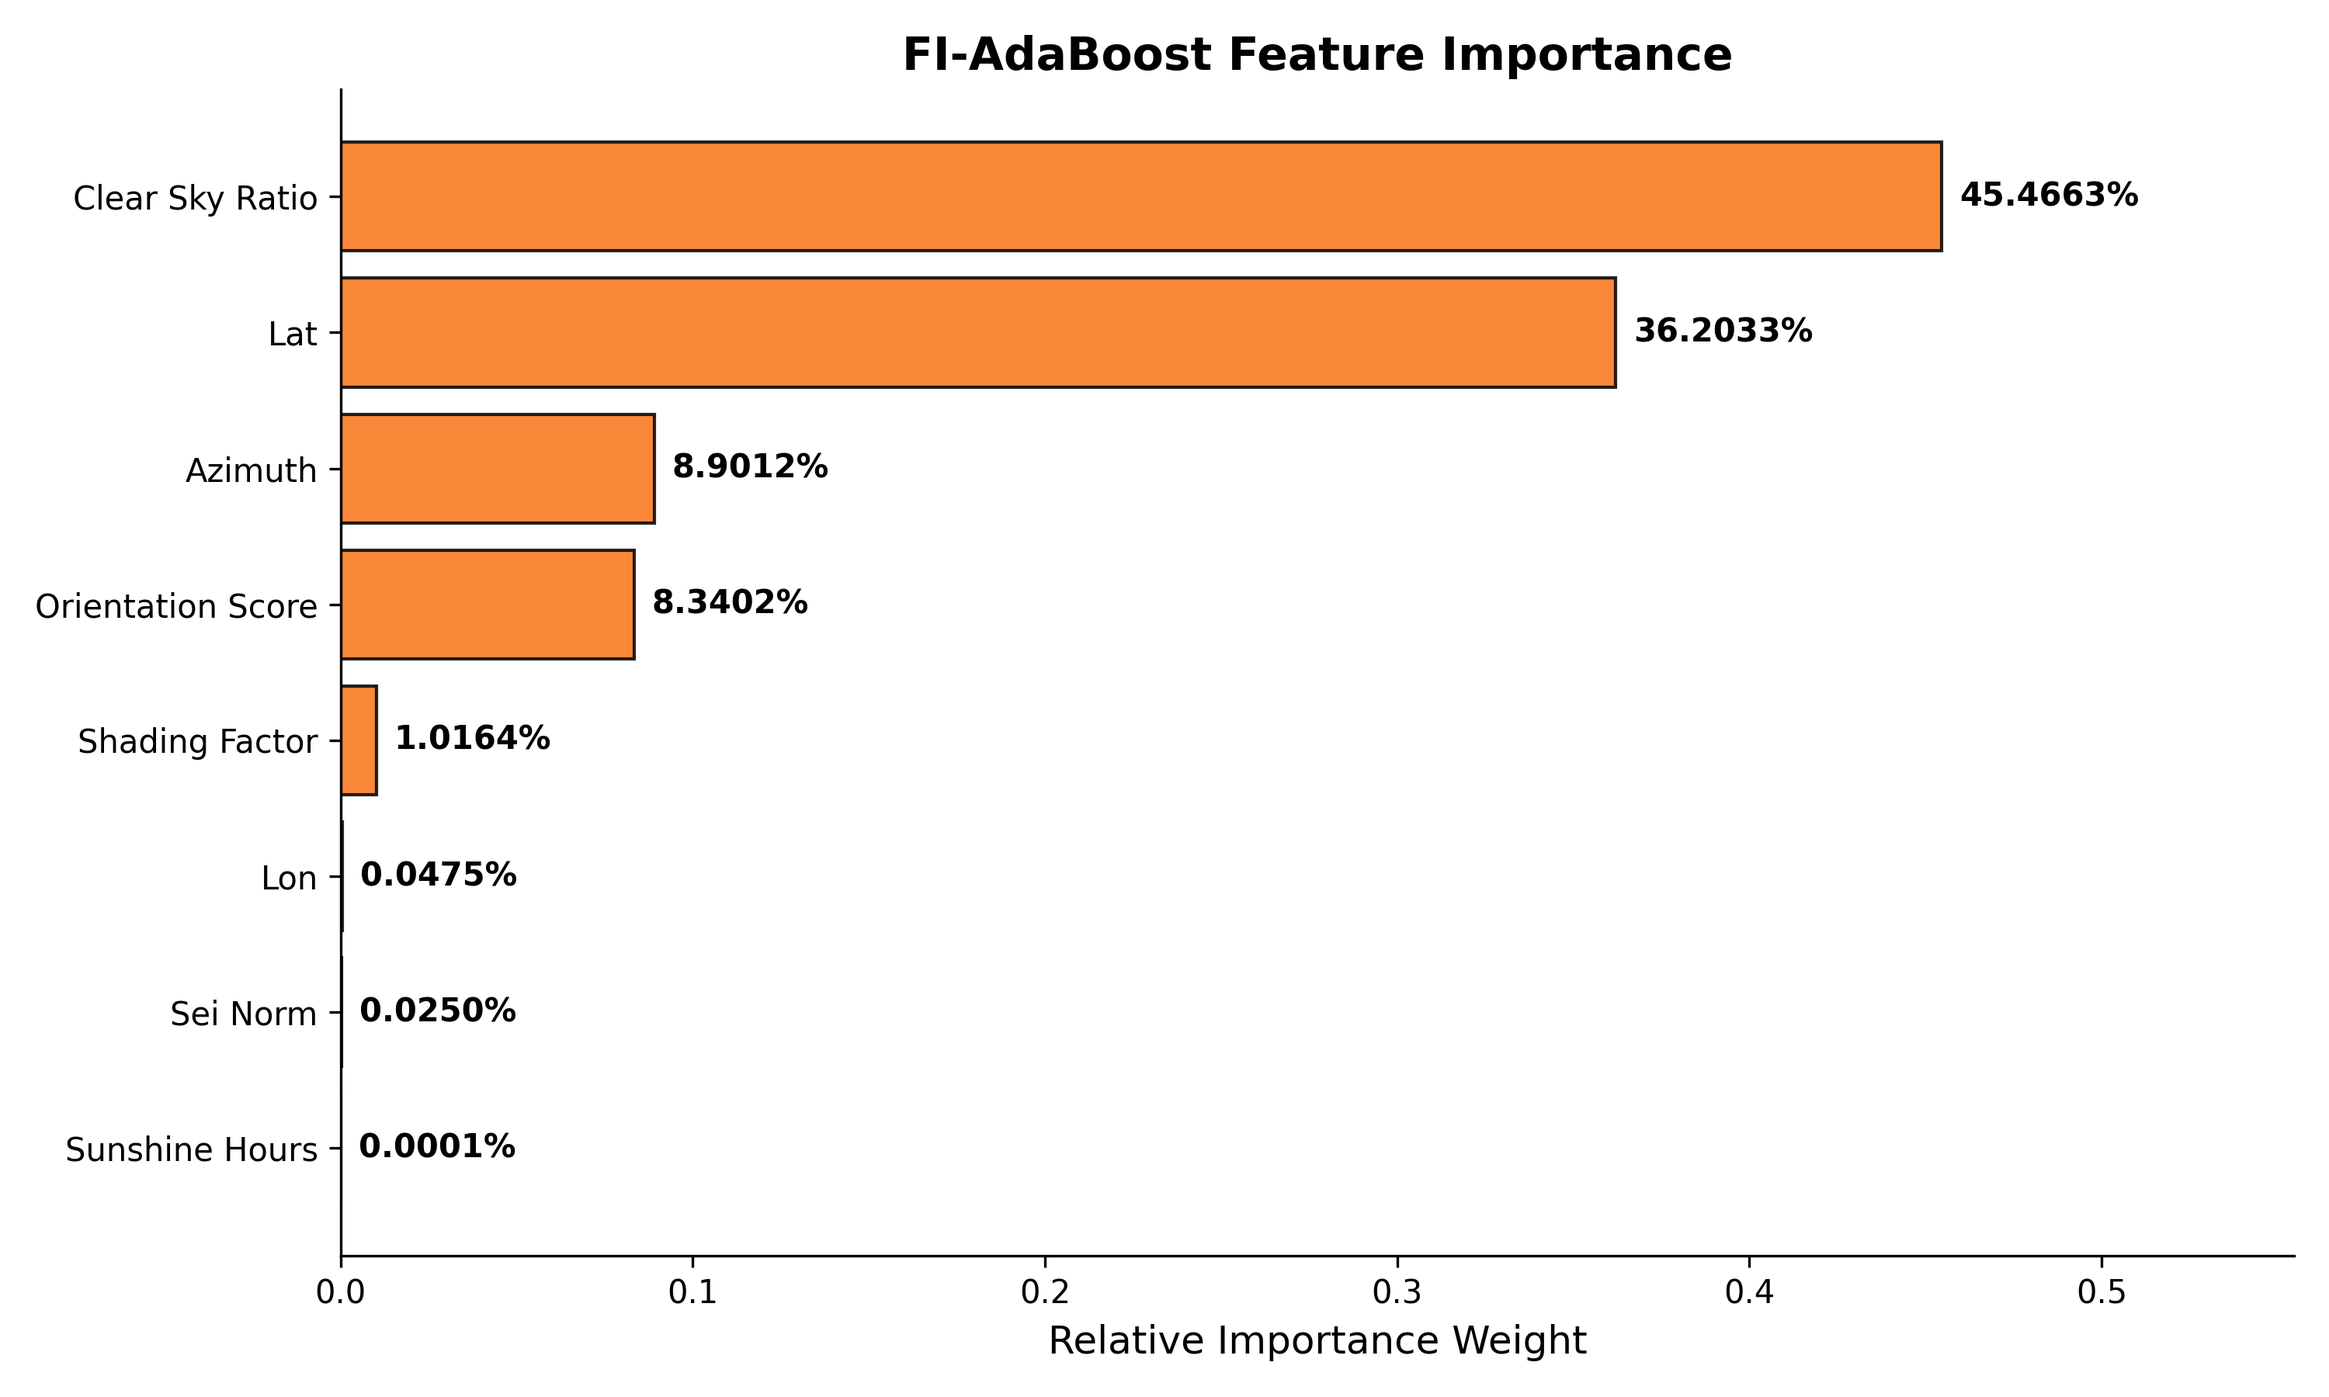
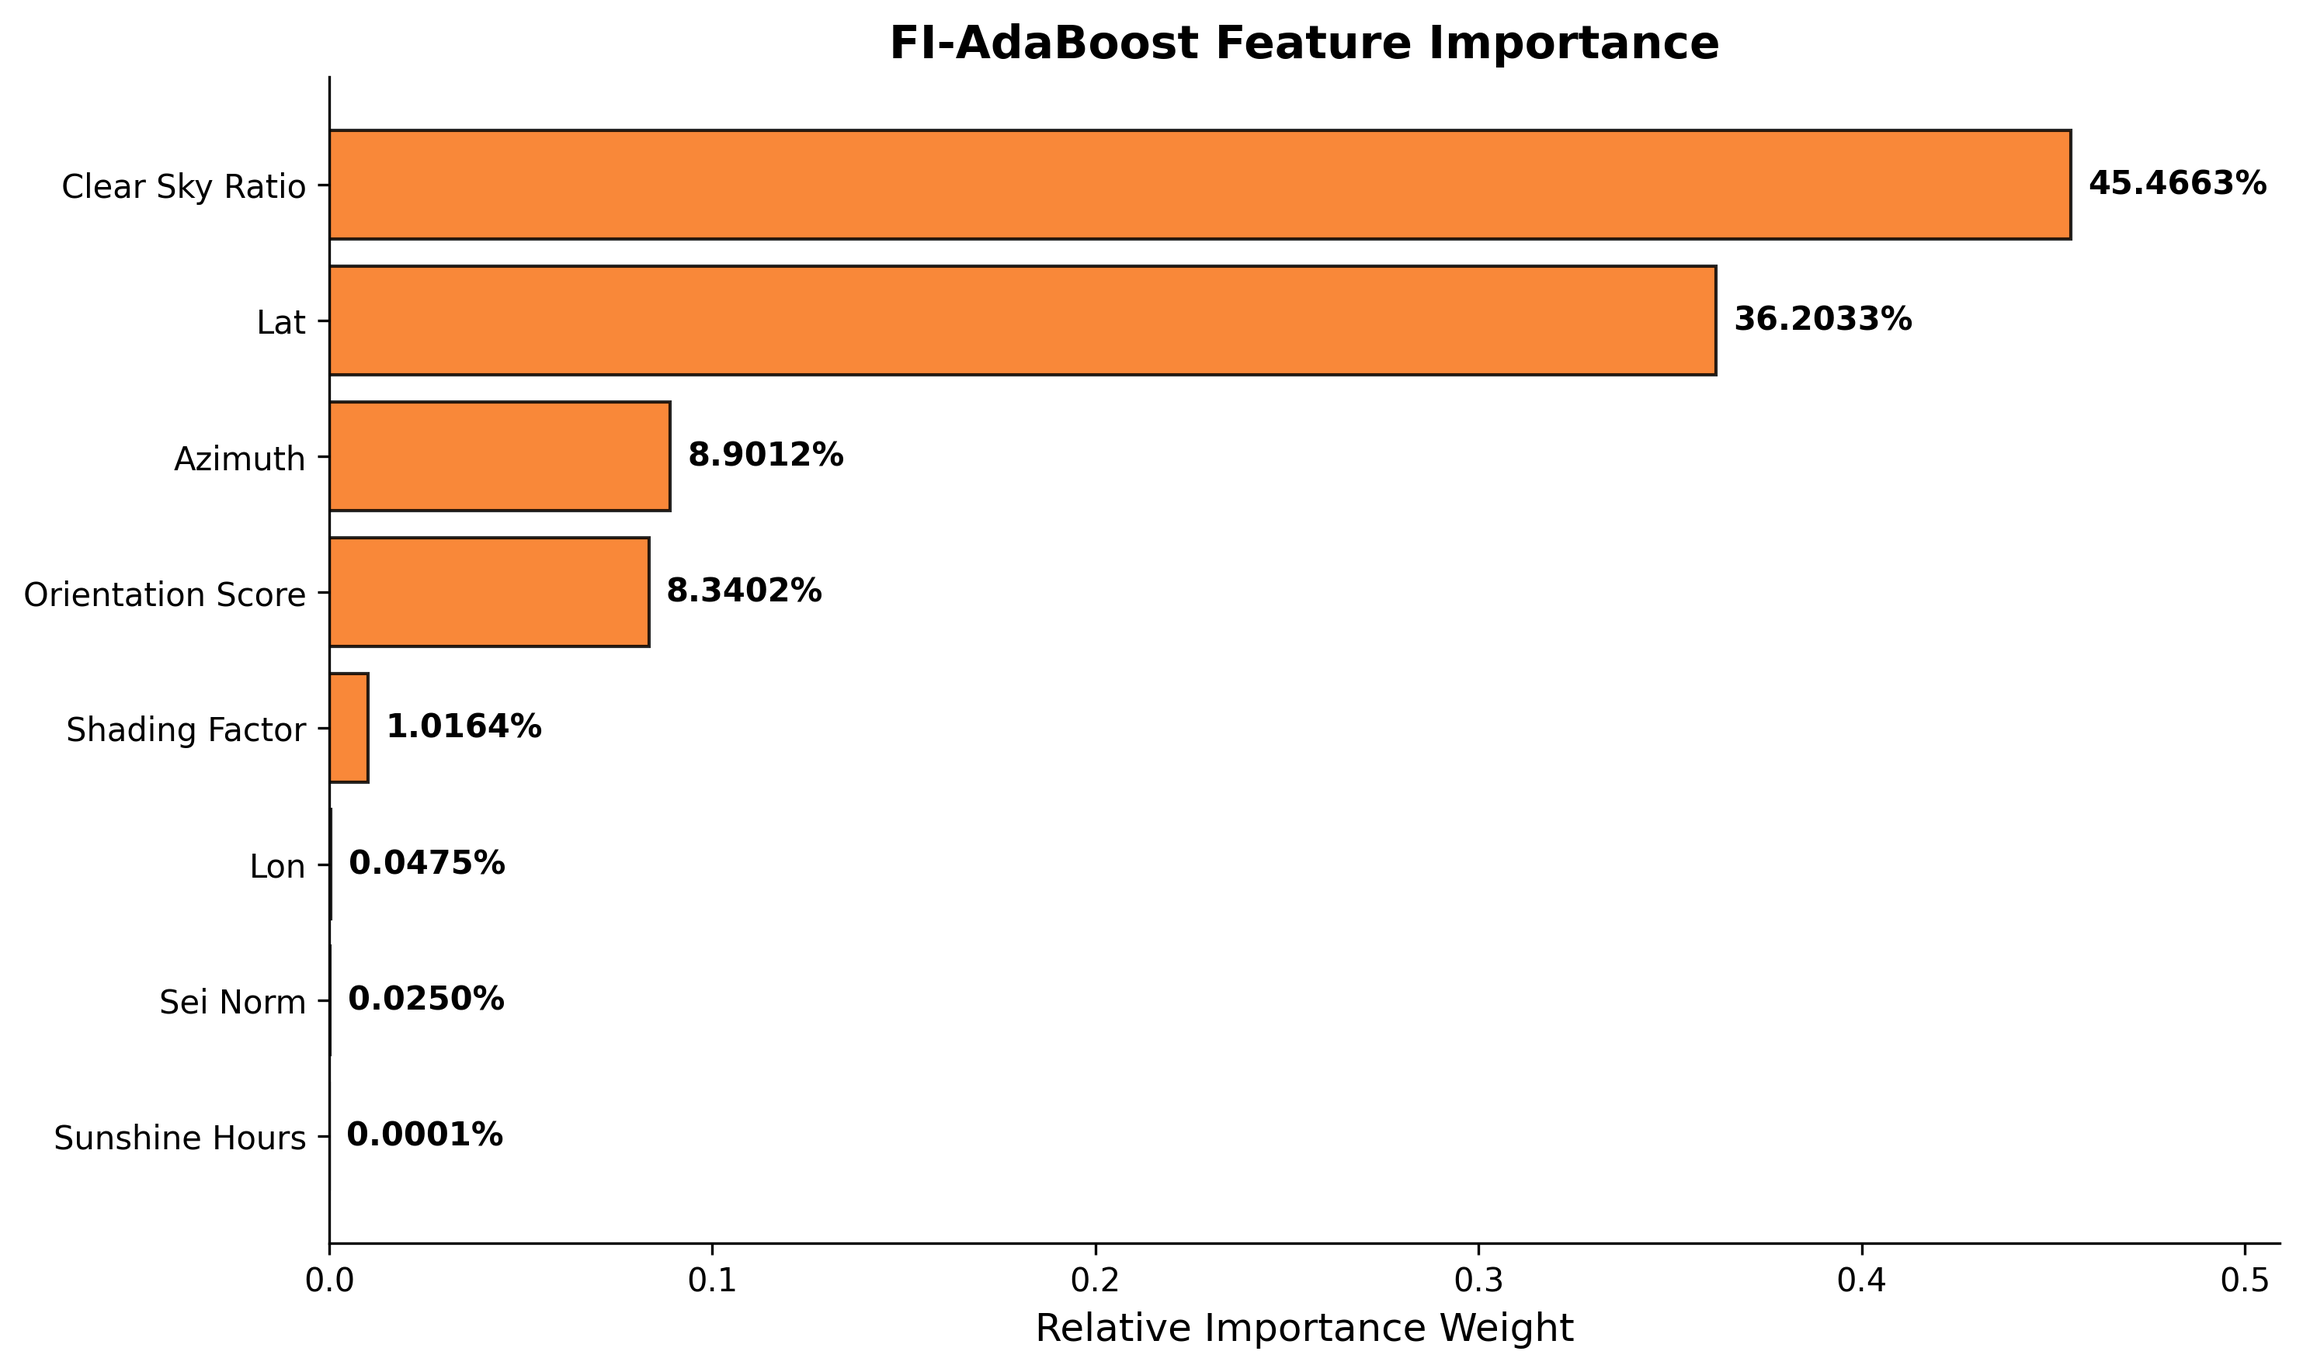
trained

diff --git a/FIAdaBoost/src/model_training.py b/FIAdaBoost/src/model_training.py
@@ -466,11 +466,15 @@ def run_kfold_cv(X_train_ada: np.ndarray, X_train_fi: np.ndarray,
         rows.append({
             "fold":             fold,
             "ada_train_RMSE_J": ada_train_m["RMSE_J"],
+            "ada_train_MAE_J":  ada_train_m["MAE_J"],
             "ada_val_RMSE_J":   ada_val_m["RMSE_J"],
+            "ada_val_MAE_J":    ada_val_m["MAE_J"],
             "ada_train_R2":     ada_train_m["R2"],
             "ada_val_R2":       ada_val_m["R2"],
             "fi_train_RMSE_J":  fi_train_m["RMSE_J"],
+            "fi_train_MAE_J":   fi_train_m["MAE_J"],
             "fi_val_RMSE_J":    fi_val_m["RMSE_J"],
+            "fi_val_MAE_J":     fi_val_m["MAE_J"],
             "fi_train_R2":      fi_train_m["R2"],
             "fi_val_R2":        fi_val_m["R2"],
         })
@@ -481,6 +485,36 @@ def save_cv_metrics(cv_df: pd.DataFrame) -> str:
     path = os.path.join(RESULTS_DIR, "cv_fold_metrics.csv")
     cv_df.to_csv(path, index=False)
     return path
+
+
+def _hyperparameter_row(
+    *,
+    pipeline: str,
+    model: str,
+    params: dict,
+    target: str,
+    features: list,
+    cv_method: str,
+    n_trials: int = 100,
+    n_splits: int = 5,
+) -> dict:
+    """Build one reproducibility row for the tuned hyperparameters CSV."""
+    return {
+        "pipeline": pipeline,
+        "model": model,
+        "tuning_method": "Optuna TPE",
+        "cv_method": cv_method,
+        "n_trials": n_trials,
+        "n_splits": n_splits,
+        "objective_metric": "mean_validation_RMSE_J",
+        "target": target,
+        "target_unit": "J/m2/day",
+        "features": ",".join(features),
+        "random_seed": RANDOM_SEED,
+        "n_estimators": params.get("n_estimators"),
+        "learning_rate": params.get("learning_rate"),
+        "max_depth": params.get("max_depth"),
+    }
 
 
 # =============================================================================
@@ -659,6 +693,30 @@ def run_daily_pipeline() -> None:
     fi_params = {'n_estimators': 100, 'learning_rate': 1.5, 'max_depth': 5}
     print(f"  Best: {fi_params}")
 
+    p_hyper = save_hyperparameters_csv(
+        [
+            _hyperparameter_row(
+                pipeline="daily_temporal",
+                model="AdaBoost (Daily, Temporal Split)",
+                params=ada_params,
+                target=DAILY_TARGET,
+                features=DAILY_FEATURES,
+                cv_method="TimeSeriesSplit",
+                n_trials=50,
+            ),
+            _hyperparameter_row(
+                pipeline="daily_temporal",
+                model="FI-AdaBoost (Daily, Temporal Split)",
+                params=fi_params,
+                target=DAILY_TARGET,
+                features=DAILY_FEATURES,
+                cv_method="TimeSeriesSplit",
+                n_trials=50,
+            ),
+        ],
+        append=True,
+    )
+
     # CV fold metrics (Fix 4 — TimeSeriesSplit)
     tscv    = TimeSeriesSplit(n_splits=5)
     cv_rows = []
@@ -727,6 +785,7 @@ def run_daily_pipeline() -> None:
     print(f"\n  Saved: {p_daily}")
     print(f"  Saved: {p_cv}")
     print(f"  Saved: {p_dm}")
+    print(f"  Saved: {p_hyper}")
 
 
 # =============================================================================
@@ -756,47 +815,150 @@ def save_forecast_csv(ada_fcast: pd.DataFrame, fi_fcast: pd.DataFrame) -> str:
     return path
 
 
+def save_hyperparameters_csv(rows: list[dict], append: bool = False) -> str:
+    path = os.path.join(RESULTS_DIR, "hyperparameters_used.csv")
+    df = pd.DataFrame(rows)
+    if append and os.path.exists(path):
+        existing = pd.read_csv(path)
+        df = pd.concat([existing, df], ignore_index=True)
+    df.to_csv(path, index=False)
+    return path
+
+
+def save_feature_weight_csv(fi_vals, feats) -> str:
+    order = np.argsort(fi_vals)[::-1]
+    rows = []
+    for rank, idx in enumerate(order, start=1):
+        weight = float(fi_vals[idx])
+        rows.append({
+            "rank": rank,
+            "feature": str(feats[idx]),
+            "fi_feature_weight": weight,
+            "fi_feature_weight_percent": weight * 100,
+            "source": "fi_adaboost_feature_importances_",
+        })
+
+    path = os.path.join(RESULTS_DIR, "feature_weight_importance.csv")
+    pd.DataFrame(rows).to_csv(path, index=False, float_format="%.12g")
+    return path
+
+
+def save_baseline_feature_weight_csv(ada_vals, feats) -> str:
+    order = np.argsort(ada_vals)[::-1]
+    rows = []
+    for rank, idx in enumerate(order, start=1):
+        weight = float(ada_vals[idx])
+        rows.append({
+            "rank": rank,
+            "feature": str(feats[idx]),
+            "baseline_feature_weight": weight,
+            "baseline_feature_weight_percent": weight * 100,
+            "source": "ada_feature_importances_",
+        })
+
+    path = os.path.join(RESULTS_DIR, "baseline_feature_weight_importance.csv")
+    pd.DataFrame(rows).to_csv(path, index=False, float_format="%.12g")
+    return path
+
+
+def save_feature_importance_comparison_csv(ada_vals, ada_feats, fi_vals, fi_feats) -> str:
+    ada_map = {feat: float(val) for feat, val in zip(ada_feats, ada_vals)}
+    fi_map = {feat: float(val) for feat, val in zip(fi_feats, fi_vals)}
+    ada_rank = {
+        feat: rank
+        for rank, (feat, _) in enumerate(
+            sorted(ada_map.items(), key=lambda item: -item[1]), start=1
+        )
+    }
+    fi_rank = {
+        feat: rank
+        for rank, (feat, _) in enumerate(
+            sorted(fi_map.items(), key=lambda item: -item[1]), start=1
+        )
+    }
+    features = list(dict.fromkeys(list(fi_feats) + list(ada_feats)))
+    rows = []
+    for feat in features:
+        ada_weight = ada_map.get(feat, 0.0)
+        fi_weight = fi_map.get(feat, 0.0)
+        rows.append({
+            "feature": feat,
+            "actual_baseline_source": (
+                "ada_feature_importances_"
+                if feat in ada_map else "not_used_by_baseline_model"
+            ),
+            "actual_baseline_importance_weight": ada_weight,
+            "actual_baseline_importance_percent": ada_weight * 100,
+            "actual_baseline_rank": ada_rank.get(feat, ""),
+            "fi_source": "fi_adaboost_feature_importances_",
+            "fi_importance_weight": fi_weight,
+            "fi_importance_percent": fi_weight * 100,
+            "fi_rank": fi_rank.get(feat, ""),
+        })
+
+    path = os.path.join(RESULTS_DIR, "feature_importance_comparison.csv")
+    pd.DataFrame(rows).sort_values(
+        "fi_importance_weight", ascending=False
+    ).to_csv(path, index=False, float_format="%.12g")
+    return path
+
+
 # =============================================================================
 # PLOTS
 # =============================================================================
-def plot_standalone_feature_importance(fi_vals, feats):
+def _plot_feature_importance_bars(vals, feats, filename: str, title: str, xlabel: str, color: str):
+    vals = np.asarray(vals, dtype=float)
+    labels = [f.replace("_", " ").title() for f in feats]
+    idx = np.argsort(vals)
+    sv = vals[idx]
+    sl = np.array(labels)[idx]
+
     plt.figure(figsize=(10, 6))
-    labels     = [f.replace("_", " ").title() for f in feats]
-    idx        = np.argsort(fi_vals)
-    sv         = fi_vals[idx]
-    sl         = np.array(labels)[idx]
-    bars       = plt.barh(sl, sv, color=C_FI, edgecolor="black", alpha=0.85)
+    bars = plt.barh(sl, sv, color=color, edgecolor="black", alpha=0.85)
+    max_val = float(max(sv)) if len(sv) else 0.0
+    label_pad = max(max_val * 0.01, 0.001)
     for bar, val in zip(bars, sv):
-        plt.text(val + 0.005, bar.get_y() + bar.get_height() / 2,
-                 f"{val * 100:.4f}%", va="center", ha="left", fontsize=10, fontweight="bold")
-    plt.title("FI-AdaBoost Feature Importance", fontsize=14, fontweight="bold")
-    plt.xlabel("Relative Importance Weight", fontsize=12)
-    plt.xlim(0, max(sv) + 0.1)
+        plt.text(val + label_pad, bar.get_y() + bar.get_height() / 2,
+                 f"{val * 100:.4f}%", va="center", ha="left",
+                 fontsize=10, fontweight="bold")
+    plt.title(title, fontsize=14, fontweight="bold")
+    plt.xlabel(xlabel, fontsize=12)
+    plt.xlim(0, max_val + max(max_val * 0.12, 0.02))
     plt.gca().spines["top"].set_visible(False)
     plt.gca().spines["right"].set_visible(False)
     plt.tight_layout()
-    plt.savefig(os.path.join(RESULTS_DIR, "standalone_feature_importances.png"), dpi=300)
+    plt.savefig(os.path.join(RESULTS_DIR, filename), dpi=300, bbox_inches="tight")
     plt.close()
+
+
+def plot_standalone_feature_importance(fi_vals, feats):
+    _plot_feature_importance_bars(
+        fi_vals, feats, "standalone_feature_importances.png",
+        "FI-AdaBoost Feature Importance", "Relative Importance Weight", C_FI,
+    )
 
 
 def plot_standalone_baseline_feature_importance(ada_vals, feats):
-    plt.figure(figsize=(10, 6))
-    labels = [f.replace("_", " ").title() for f in feats]
-    idx    = np.argsort(ada_vals)
-    sv     = ada_vals[idx]
-    sl     = np.array(labels)[idx]
-    bars   = plt.barh(sl, sv, color=C_ADA, edgecolor="black", alpha=0.85)
-    for bar, val in zip(bars, sv):
-        plt.text(val + 0.005, bar.get_y() + bar.get_height() / 2,
-                 f"{val * 100:.4f}%", va="center", ha="left", fontsize=10, fontweight="bold")
-    plt.title("Baseline AdaBoost Feature Importance", fontsize=14, fontweight="bold")
-    plt.xlabel("Relative Importance Weight", fontsize=12)
-    plt.xlim(0, max(sv) + 0.1)
-    plt.gca().spines["top"].set_visible(False)
-    plt.gca().spines["right"].set_visible(False)
-    plt.tight_layout()
-    plt.savefig(os.path.join(RESULTS_DIR, "baseline_feature_importances.png"), dpi=300)
-    plt.close()
+    _plot_feature_importance_bars(
+        ada_vals, feats, "baseline_feature_importances.png",
+        "Baseline AdaBoost Feature Importance", "Relative Importance Weight", C_ADA,
+    )
+
+
+def plot_feature_weight_importance(fi_vals, feats):
+    _plot_feature_importance_bars(
+        fi_vals, feats, "feature_weight_importance.png",
+        "FI-AdaBoost Feature Weight Importance\nProof of Feature-Aware Weighting",
+        "Feature Weight Used by FI-AdaBoost", C_FI,
+    )
+
+
+def plot_baseline_feature_weight_importance(ada_vals, feats):
+    _plot_feature_importance_bars(
+        ada_vals, feats, "baseline_feature_weight_importance.png",
+        "Baseline AdaBoost Feature Weight Importance\nActual Fitted AdaBoost Feature Importances",
+        "Feature Weight from Fitted AdaBoost", C_ADA,
+    )
 
 
 def plot_actual_vs_predicted(y_true_ada, y_pred_ada, y_true_fi, y_pred_fi):
@@ -969,9 +1131,8 @@ def main():
         "random_seed":    RANDOM_SEED,
         "target_col":     TARGET_COL,
     }]
-    pd.DataFrame(split_info).to_csv(
-        os.path.join(RESULTS_DIR, "train_test_split_info.csv"), index=False
-    )
+    p_split = os.path.join(RESULTS_DIR, "train_test_split_info.csv")
+    pd.DataFrame(split_info).to_csv(p_split, index=False)
 
     X_tr_ada = train_df[BASELINE_FEATURES].values.astype(float)
     X_te_ada = test_df[BASELINE_FEATURES].values.astype(float)
@@ -992,10 +1153,33 @@ def main():
     fi_params = {'n_estimators': 141, 'learning_rate': 0.63, 'max_depth': 4}
     print(f"  FI-AdaBoost params: {fi_params}")
 
+    p_hparams = save_hyperparameters_csv(
+        [
+            _hyperparameter_row(
+                pipeline="spatial_rooftop",
+                model="AdaBoost (Baseline)",
+                params=ada_params,
+                target=TARGET_COL,
+                features=BASELINE_FEATURES,
+                cv_method="KFold",
+            ),
+            _hyperparameter_row(
+                pipeline="spatial_rooftop",
+                model="FI-AdaBoost (Proposed)",
+                params=fi_params,
+                target=TARGET_COL,
+                features=FI_FEATURES,
+                cv_method="KFold",
+            ),
+        ],
+        append=False,
+    )
+    print(f"  Saved tuned hyperparameters: {p_hparams}")
+
     # ── [4] KFold CV metrics (Fix 4) ───────────────────────────────────────────
     print("\n[4/6] KFold CV Metrics …")
     cv_df = run_kfold_cv(X_tr_ada, X_tr_fi, y_tr, ada_params, fi_params)
-    save_cv_metrics(cv_df)
+    p_cv = save_cv_metrics(cv_df)
 
     print("  Fold metrics (Validation):")
     for _, r in cv_df.iterrows():
@@ -1036,7 +1220,7 @@ def main():
     dm = diebold_mariano_test(y_te - ada_te, y_te - fi_te)
 
     print("\n  Baseline AdaBoost Feature Importances:")
-    for feat, imp in sorted(zip(SHARED_FEATURES, ada.feature_importances_), key=lambda x: -x[1]):
+    for feat, imp in sorted(zip(BASELINE_FEATURES, ada.feature_importances_), key=lambda x: -x[1]):
         print(f"    {feat:<25}: {imp * 100:.4f}%")
 
     print("\n  FI-AdaBoost Feature Importances (Fix 6 — raw, no log transform):")
@@ -1067,9 +1251,17 @@ def main():
     p_metrics  = save_metrics_csv(ada_test_m, fi_test_m)
     p_forecast = save_forecast_csv(ada_fcast, fi_fcast)
     p_dm       = save_dm_results(dm, suffix="spatial")
+    p_compare  = save_feature_importance_comparison_csv(
+        ada.feature_importances_, BASELINE_FEATURES,
+        fi.feature_importances_, FI_FEATURES,
+    )
+    p_base_wt  = save_baseline_feature_weight_csv(ada.feature_importances_, BASELINE_FEATURES)
+    p_fi_wt    = save_feature_weight_csv(fi.feature_importances_, FI_FEATURES)
 
-    plot_standalone_baseline_feature_importance(ada.feature_importances_, SHARED_FEATURES)
-    plot_standalone_feature_importance(fi.feature_importances_, SHARED_FEATURES)
+    plot_standalone_baseline_feature_importance(ada.feature_importances_, BASELINE_FEATURES)
+    plot_standalone_feature_importance(fi.feature_importances_, FI_FEATURES)
+    plot_baseline_feature_weight_importance(ada.feature_importances_, BASELINE_FEATURES)
+    plot_feature_weight_importance(fi.feature_importances_, FI_FEATURES)
     plot_actual_vs_predicted(y_te, ada_te, y_te, fi_te)
     plot_residuals(y_te, ada_te, y_te, fi_te)
     plot_metrics_comparison(ada_test_m, fi_test_m)
@@ -1078,12 +1270,19 @@ def main():
     plot_overfit_check(ada_train_m, ada_test_m, fi_train_m, fi_test_m)
 
     saved = [
-        ("CSV",   os.path.join(RESULTS_DIR, "train_test_split_info.csv")),
+        ("CSV",   p_split),
+        ("CSV",   p_cv),
         ("CSV",   p_metrics),
         ("CSV",   p_forecast),
         ("CSV",   p_dm),
+        ("CSV",   p_hparams),
+        ("CSV",   p_compare),
+        ("CSV",   p_base_wt),
+        ("CSV",   p_fi_wt),
         ("Plot",  os.path.join(RESULTS_DIR, "baseline_feature_importances.png")),
         ("Plot",  os.path.join(RESULTS_DIR, "standalone_feature_importances.png")),
+        ("Plot",  os.path.join(RESULTS_DIR, "baseline_feature_weight_importance.png")),
+        ("Plot",  os.path.join(RESULTS_DIR, "feature_weight_importance.png")),
         ("Plot",  os.path.join(RESULTS_DIR, "actual_vs_predicted.png")),
         ("Plot",  os.path.join(RESULTS_DIR, "residuals.png")),
         ("Plot",  os.path.join(RESULTS_DIR, "metrics_comparison.png")),
